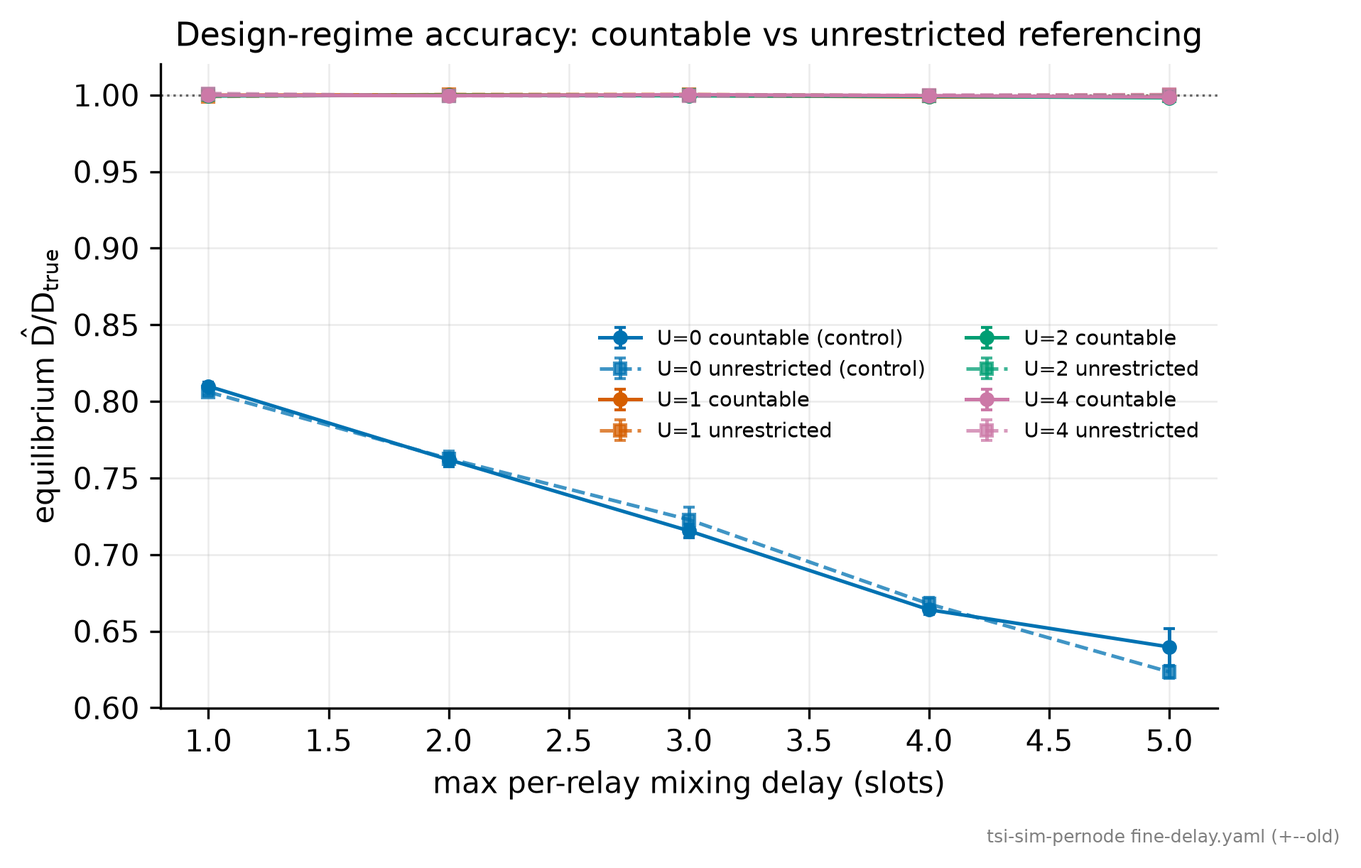
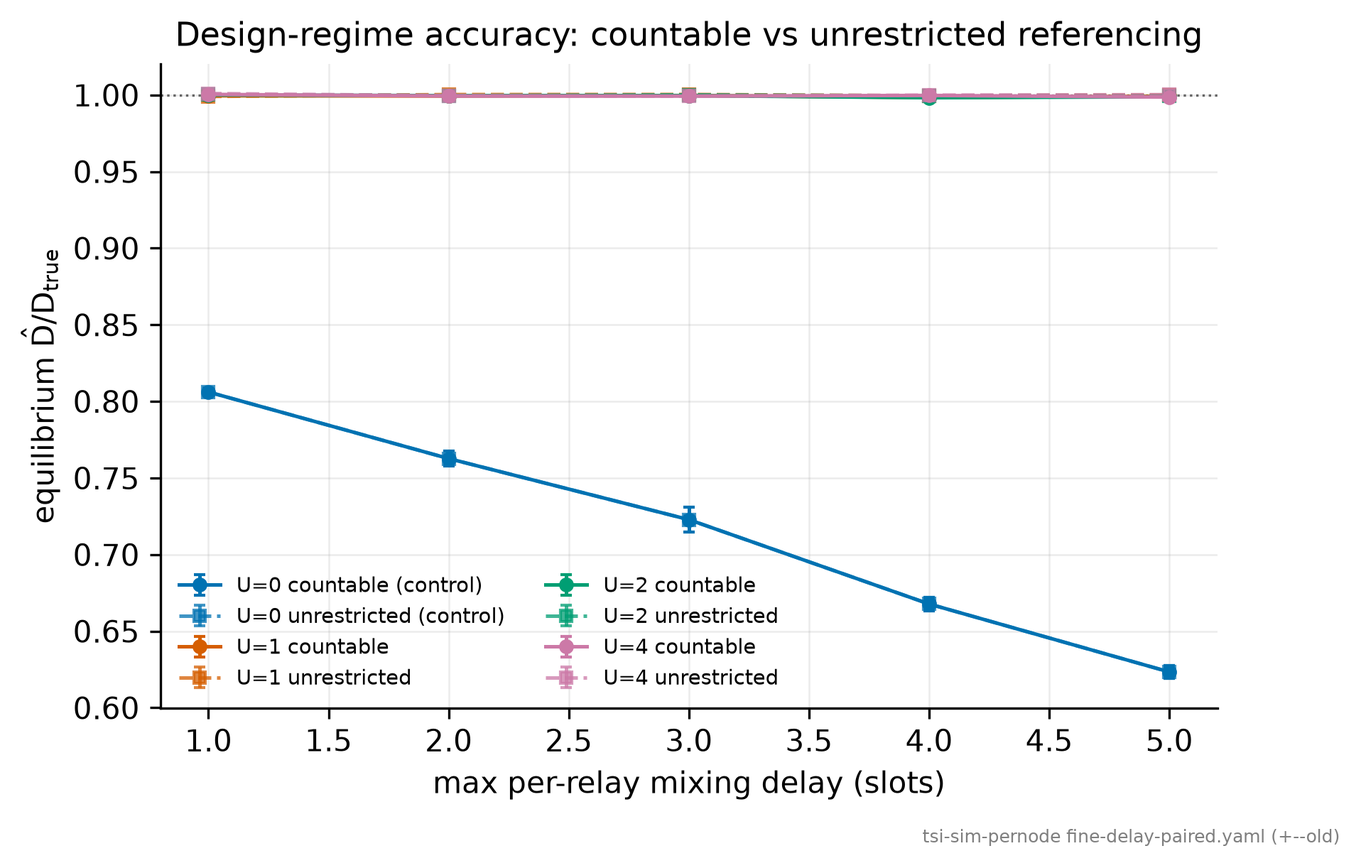
Paired design: resolve the design band with common random numbers
The unpaired comparison could not answer the question it was asked. The
two uncle models draw independent RNG streams -- uncle_model is in the
config key, which is what makes --old bit-reproduce earlier runs -- so
the arms differed in stake draw, peering graph and every lottery
outcome, each comparison paid the between-run variance twice, and the
per-cell floor (+-0.0015) sat an order of magnitude above the effect.
Only delta_max = 5 resolved, and only after pooling.

Adds `paired_streams`: the RNG root is derived from the model-
independent part of the key, so a countable cell and its --old twin get
the SAME stake, graph and lottery draws and the uncle rule is the only
difference. Each replicate is then a matched pair and the shared
variance cancels. Trajectories still diverge after epoch 0 through the
genuine feedback (a different counted density changes the next epoch's
difficulty), which is the signal.

The flag is deliberately NOT in key(): it selects which key the seed is
derived from, so including it would perturb every historical seed.
Re-verified that --old still bit-reproduces the committed 2026-07-27
rho-boundary parquet, max |delta| = 0.

Results (configs/fine-delay-paired.yaml, 40 replicates per arm):
- Negative control becomes an IDENTITY check. With U = 0 no reference is
  taken, so shared streams must give bit-identical trajectories. All 200
  replicate pairs differ by exactly 0.0. Unpaired, the same control only
[…]

diff --git a/tools/simulators/tsi/tsi-sim-pernode/scripts/plot_fine_delay.py b/tools/simulators/tsi/tsi-sim-pernode/scripts/plot_fine_delay.py
@@ -46,6 +46,34 @@ def _load(run_dir: str | Path) -> pd.DataFrame:
     return pd.read_parquet(Path(run_dir) / "results.parquet")
 
 
+def paired_gaps(cnt_raw: pd.DataFrame, old_raw: pd.DataFrame) -> pd.DataFrame | None:
+    """Per-replicate differences, when both arms were run with ``paired_streams``.
+
+    Under common random numbers replicate *i* of each arm shares the stake draw, the peering
+    graph and the lottery outcomes, so ``d_i = countable_i - unrestricted_i`` is a PAIRED
+    observation and the shared variance cancels. The test is then a one-sample t on the d_i,
+    which is what makes a sub-0.1 % effect reachable per cell instead of only after pooling.
+
+    Returns None when the runs are not paired, so the caller falls back to the unpaired test.
+    """
+    if not (cnt_raw.get("paired_streams", pd.Series([False])).all()
+            and old_raw.get("paired_streams", pd.Series([False])).all()):
+        return None
+    c, o = equilibrium(cnt_raw), equilibrium(old_raw)
+    keys = [DELAY, "max_uncles", "replicate"]
+    m = c[[*keys, "mean_ratio"]].merge(o[[*keys, "mean_ratio"]], on=keys,
+                                       suffixes=("_c", "_o"))
+    m["d"] = m.mean_ratio_c - m.mean_ratio_o
+    rows = []
+    for (dl, u), s in m.groupby([DELAY, "max_uncles"]):
+        d = s.d.to_numpy()
+        se = sem(d)
+        rows.append({DELAY: dl, "max_uncles": u, "gap": float(d.mean()), "se": se,
+                     "ci95": Z95 * se, "t": abs(d.mean()) / se if se > 0 else np.inf,
+                     "n_pair": len(d), "n_zero": int((d == 0.0).sum())})
+    return pd.DataFrame(rows).sort_values(["max_uncles", DELAY])
+
+
 def _cells(df: pd.DataFrame) -> pd.DataFrame:
     """Per (delay, U): replicate mean, SEM and count of the equilibrium accuracy."""
     return equilibrium(df).groupby([DELAY, "max_uncles"], as_index=False).agg(
@@ -146,10 +174,14 @@ def fig_gap(g: pd.DataFrame) -> plt.Figure:
         span = float(np.abs(np.r_[g[g.max_uncles > 0].gap + g[g.max_uncles > 0].ci95,
                                   g[g.max_uncles > 0].gap - g[g.max_uncles > 0].ci95]).max())
         ax.set_ylim(-1.35 * span, 1.35 * span)
-        ax.text(0.015, 0.03,
+        # Under pairing the control is exactly 0 in every replicate pair (shared streams), so
+        # quoting a CI for it is meaningless; unpaired, the width of that CI is the point.
+        note = ("U=0 negative control: exactly 0.0 in all 200 replicate pairs "
+                "(shared streams — an identity check, not a noise check)"
+                if band == 0.0 else
                 f"U=0 negative control (true gap = 0): 95% CI ±{band:.4f}, "
-                f"{band / span:.0f}× outside this range",
-                transform=ax.transAxes, fontsize=6.5, alpha=0.75)
+                f"{band / span:.0f}× outside this range")
+        ax.text(0.015, 0.03, note, transform=ax.transAxes, fontsize=6.5, alpha=0.75)
     ax.legend(fontsize="x-small", ncol=2)
     return fig
 
@@ -164,10 +196,17 @@ def main() -> None:
     out = Path(args.out)
     out.mkdir(parents=True, exist_ok=True)
 
-    cnt_raw = _load(args.countable)
-    cnt, old = _cells(cnt_raw), _cells(_load(args.old))
-    g = gaps(cnt, old)
-    prov = "tsi-sim-pernode fine-delay.yaml (+--old)"
+    cnt_raw, old_raw = _load(args.countable), _load(args.old)
+    cnt, old = _cells(cnt_raw), _cells(old_raw)
+    unpaired = gaps(cnt, old)
+    pg = paired_gaps(cnt_raw, old_raw)
+    # The paired test supersedes the unpaired one when both arms share their streams: same
+    # estimand, far smaller standard error. Keep the unpaired numbers for the variance-
+    # reduction report below.
+    g = unpaired if pg is None else unpaired.drop(columns=["gap", "se", "ci95", "t"]).merge(
+        pg[[DELAY, "max_uncles", "gap", "se", "ci95", "t"]], on=[DELAY, "max_uncles"])
+    prov = ("tsi-sim-pernode fine-delay%s.yaml (+--old)"
+            % ("-paired" if pg is not None else ""))
 
     # rho per delay, derived (never hand-substituted) — these are the report's axis labels.
     delays = sorted(cnt[DELAY].unique())
@@ -210,11 +249,35 @@ def main() -> None:
     alle = float(np.sqrt(1.0 / w.sum()))
     print(f"  whole band: {allp:+.5f} +-{Z95 * alle:.5f}  t={abs(allp) / alle:.2f}")
 
+    if pg is not None:
+        print("\n=== PAIRED design (common random numbers) ===")
+        # Variance reduction actually achieved, per cell, vs the unpaired standard error.
+        cmp = unpaired[[DELAY, "max_uncles", "se"]].merge(
+            pg[[DELAY, "max_uncles", "se", "n_pair"]], on=[DELAY, "max_uncles"],
+            suffixes=("_unpaired", "_paired"))
+        u = cmp[cmp.max_uncles > 0]
+        ratio = (u.se_unpaired / u.se_paired.replace(0, np.nan))
+        print(f"  SE shrink at U>=1: median {ratio.median():.1f}x, range "
+              f"{ratio.min():.1f}-{ratio.max():.1f}x  ({int(u.n_pair.min())} pairs/cell)")
+        pctl = pg[pg.max_uncles == 0]
+        exact, tot = int(pctl.n_zero.sum()), int(pctl.n_pair.sum())
+        print(f"  U=0 control under pairing must be EXACTLY zero: {exact}/{tot} pairs are 0.0"
+              f" -> {'PASSES' if exact == tot else 'FAILS — streams are not shared'}")
+        res = pg[(pg.max_uncles > 0) & (pg.t >= 2)]
+        print(f"  per-cell resolved at |t|>=2: {len(res)}/{len(pg[pg.max_uncles>0])}"
+              f" (unpaired: {int((unpaired[unpaired.max_uncles>0].t>=2).sum())}/15)")
+
     ctl = g[g.max_uncles == 0]
     if len(ctl):
-        print(f"\nU=0 negative control (true gap = 0): |gap| up to {ctl.gap.abs().max():.4f}, "
-              f"max t = {ctl.t.max():.2f}, 95% CI +-{ctl.ci95.max():.4f} "
-              f"-> control {'PASSES' if ctl.t.max() < 2 else 'FAILS'}")
+        # Under pairing the control gap is EXACTLY 0, so its se is 0 and t is 0/0. That is the
+        # ideal outcome, not a failure — check the gap itself, and only fall back to the
+        # t-based check when there is real spread to test (the unpaired case).
+        worst = float(ctl.gap.abs().max())
+        exact = bool((ctl.se == 0).all()) if "se" in ctl else False
+        ok = (worst == 0.0) if exact else (float(ctl.t.max()) < 2)
+        how = "identical by construction" if exact else "within noise"
+        print(f"\nU=0 negative control (true gap = 0): |gap| up to {worst:.4g} ({how})"
+              f" -> control {'PASSES' if ok else 'FAILS'}")
 
     # Absolute test: does uncle recovery actually land on 1.0? Same question as the gap
     # test, asked without reference to the other model.

diff --git a/tools/simulators/tsi/tsi-sim-pernode/src/tsi_sim/config.py b/tools/simulators/tsi/tsi-sim-pernode/src/tsi_sim/config.py
@@ -99,6 +99,19 @@ class SimConfig:
     # Old model only (--old): the uncle reference window w_u in slots, set directly.
     # Ignored by the countable model, which derives the window from window_absorption.
     uncle_window: int = constants.W_DEFAULT
+    # COMMON RANDOM NUMBERS for countable-vs-old comparisons. Off by default, and deliberately
+    # NOT part of key() — with it off every seed is byte-identical to before, so historical runs
+    # and --old bit-reproduction are untouched.
+    #
+    # The two uncle models normally draw independent streams (uncle_model is in the key), so a
+    # comparison pays the full between-run variance TWICE and the arms differ in stake draw,
+    # peering graph and every lottery outcome. With paired_streams=True the RNG root is derived
+    # from the model-independent part of the key instead, so both arms get the SAME stake, the
+    # SAME graph and the SAME lottery draws; the only difference is the uncle rule, and the
+    # per-replicate difference becomes a paired observation with the shared variance cancelled.
+    # Trajectories still diverge legitimately after epoch 0 — a different counted density feeds
+    # back into the next epoch's difficulty — which is the effect being measured, not noise.
+    paired_streams: bool = False
     max_uncles: int = 0                       # U (0 = baseline, no uncles)
     uncle_strategy: UncleStrategy = "oldest"
     # Coin-flip inclusion prob for the "random" strategy. Only 0.5 reproduces the spec's
@@ -319,16 +332,9 @@ class SimConfig:
     def period_T(self) -> int:
         return constants.period_T(self.k, self.f)
 
-    def key(self) -> tuple:
-        """Hashable identity used to seed the RNG deterministically.
-
-        Must include EVERY field that affects the run (guarded by test_rng), otherwise two
-        distinct configs would share an RNG stream. ``uncle_model`` /
-        ``window_absorption`` are appended ONLY for the countable model: an ``--old`` run's
-        key is then byte-identical to the pre-redesign key, so ``--old`` bit-reproduces
-        historical runs (the two models still get distinct streams from the marker).
-        """
-        base = (
+    def _base_key(self) -> tuple:
+        """Identity fields shared by both uncle models — see ``key`` and ``seed_key``."""
+        return (
             self.n_nodes, self.stake_dist, self.pareto_shape, self.uniform_random,
             self.total_stake, self.latency, self.latency_stochastic, self.uncle_window,
             self.max_uncles, self.uncle_strategy, self.uncle_random_p, self.f, self.beta,
@@ -345,9 +351,29 @@ class SimConfig:
         # NOTE: windowed_fork_choice and prune_arrival are deliberately excluded — they are pure
         # compute/memory optimisations that consume no RNG and (at jitter_mean == 0) change no
         # result, so pruned and full-matrix runs must share a seed (see test_pernode parity).
+
+    def key(self) -> tuple:
+        """Hashable identity used to seed the RNG deterministically.
+
+        Must include EVERY field that affects the run (guarded by test_rng), otherwise two
+        distinct configs would share an RNG stream. ``uncle_model`` /
+        ``window_absorption`` are appended ONLY for the countable model: an ``--old`` run's
+        key is then byte-identical to the pre-redesign key, so ``--old`` bit-reproduces
+        historical runs (the two models still get distinct streams from the marker).
+        """
         if self.uncle_model == "old":
-            return base                     # historical (pre-uncle_model) key: --old bit-compat
-        return base + (self.uncle_model, self.window_absorption)
+            return self._base_key()         # historical (pre-uncle_model) key: --old bit-compat
+        return self._base_key() + (self.uncle_model, self.window_absorption)
+
+    def seed_key(self) -> tuple:
+        """The identity the RNG root is actually derived from (see ``rng.seedseq_for``).
+
+        Identical to ``key`` except under ``paired_streams``, where it deliberately drops the
+        uncle-model marker so that a countable run and an ``--old`` run of the SAME cell draw
+        the SAME root seed — common random numbers, which is what makes the two arms a
+        *paired* sample (see ``paired_streams``).
+        """
+        return self._base_key() if self.paired_streams else self.key()
 
 
 # Axes that can be swept; every SimConfig field is legal here.

diff --git a/tools/simulators/tsi/tsi-sim-pernode/tests/test_rng.py b/tools/simulators/tsi/tsi-sim-pernode/tests/test_rng.py
@@ -32,3 +32,77 @@ def test_replicates_differ():
     b = run_trajectory(SimConfig(n_nodes=300, topology="regular", k=8, epochs=6,
                                  link_latency_mean=2.0, replicate=1))
     assert a[-1]["mean_ratio"] != b[-1]["mean_ratio"]
+
+
+def test_paired_streams_shares_the_root_across_uncle_models():
+    """Common random numbers: with paired_streams the two arms draw the SAME root seed."""
+    from tsi_sim.rng import seedseq_for
+
+    kw = dict(n_nodes=50, max_uncles=2, blend_delay_max=5.0, topology="blend",
+              k=32, epochs=2, replicate=3, paired_streams=True)
+    c = SimConfig(uncle_model="countable", **kw)
+    o = SimConfig(uncle_model="old", **kw)
+    assert c.seed_key() == o.seed_key()             # the marker is dropped
+    assert c.key() != o.key()                       # ...but identity still distinguishes them
+    assert seedseq_for(c).entropy == seedseq_for(o).entropy
+
+
+def test_unpaired_is_the_default_and_separates_the_models():
+    kw = dict(n_nodes=50, max_uncles=2, blend_delay_max=5.0, topology="blend",
+              k=32, epochs=2, replicate=3)
+    c, o = SimConfig(uncle_model="countable", **kw), SimConfig(uncle_model="old", **kw)
+    assert c.paired_streams is False and o.paired_streams is False
+    assert c.seed_key() == c.key() and o.seed_key() == o.key()
+    assert seedseq_for(c).entropy != seedseq_for(o).entropy
+
+
+def test_paired_streams_does_not_perturb_unpaired_seeds():
+    """The flag must not enter key(): every historical seed stays byte-identical.
+
+    This is what protects --old bit-reproduction of the pre-redesign runs (report §9).
+    """
+    from tsi_sim.rng import seedseq_for
+
+    for model in ("countable", "old"):
+        base = SimConfig(uncle_model=model, n_nodes=50, max_uncles=2, k=32, epochs=2)
+        flagged = SimConfig(uncle_model=model, n_nodes=50, max_uncles=2, k=32, epochs=2,
+                            paired_streams=False)
+        assert base.key() == flagged.key()
+        assert seedseq_for(base).entropy == seedseq_for(flagged).entropy
+    # and the old model's key is still exactly the base tuple (no marker appended)
+    o = SimConfig(uncle_model="old", n_nodes=50, k=32, epochs=2)
+    assert o.key() == o._base_key()
+
+
+def test_paired_streams_gives_both_arms_the_same_stake_and_graph():
+    """Pairing must reach the actual shared inputs, not just the root seed."""
+    import numpy as np
+
+    from tsi_sim import topology
+    from tsi_sim.rng import seedseq_for
+    from tsi_sim.stake import make_stake
+
+    kw = dict(n_nodes=60, degree=4, topology="blend", max_uncles=2, k=32, epochs=2,
+              blend_delay_max=5.0, replicate=1)
+    c = SimConfig(uncle_model="countable", paired_streams=True, **kw)
+    o = SimConfig(uncle_model="old", paired_streams=True, **kw)
+    kids = {n: seedseq_for(cfg).spawn(cfg.epochs + 3)
+            for n, cfg in (("c", c), ("o", o))}
+    s_c = make_stake(c, np.random.default_rng(kids["c"][0]))
+    s_o = make_stake(o, np.random.default_rng(kids["o"][0]))
+    np.testing.assert_array_equal(s_c, s_o)                      # same stake draw
+    g_c = topology.build_path_latency(c, np.random.default_rng(kids["c"][1]))
+    g_o = topology.build_path_latency(o, np.random.default_rng(kids["o"][1]))
+    np.testing.assert_array_equal(g_c, g_o)                      # same peering graph
+
+
+def test_paired_streams_is_recorded_in_the_output_row():
+    """A paired run must be identifiable from its parquet alone.
+
+    scripts/plot_fine_delay.py picks the paired test only when both arms report
+    paired_streams; if the flag were missing from the recorded config it would silently fall
+    back to the unpaired test and quietly discard the whole point of the paired sweep.
+    """
+    from tsi_sim.metrics import _CONFIG_FIELDS
+
+    assert "paired_streams" in _CONFIG_FIELDS

diff --git a/tools/simulators/tsi/tsi-sim-pernode/tests/test_config.py b/tools/simulators/tsi/tsi-sim-pernode/tests/test_config.py
@@ -140,8 +140,11 @@ def test_key_covers_every_field():
     # uncle_window is read ONLY by the old model; under the (default) countable model it is
     # an ignored field, deliberately left in the base tuple at its old position so that an
     # --old run's key stays byte-identical to historical keys.
+    # paired_streams must NOT be in key(): it selects WHICH key the RNG root is derived from
+    # (see seed_key), so putting it in key() would perturb every historical seed and break
+    # --old bit-reproduction. Its own behaviour is pinned in test_rng.py.
     ignored = {"root_seed", "windowed_fork_choice", "prune_arrival", "early_stop",
-               "uncle_window"}
+               "uncle_window", "paired_streams"}
     names = {f.name for f in dataclasses.fields(SimConfig)} - ignored
     a = SimConfig()
     for name in names:
@@ -152,6 +155,10 @@ def test_key_covers_every_field():
     # ... and uncle_window IS distinguished under the old model, where it is live.
     old = SimConfig(uncle_model="old")
     assert old.key() != dataclasses.replace(old, uncle_window=old.uncle_window + 1).key()
+    # paired_streams leaves key() untouched but DOES change the seed derived from it.
+    a_paired = dataclasses.replace(a, paired_streams=True)
+    assert a.key() == a_paired.key()
+    assert a.seed_key() != a_paired.seed_key()
 
 
 def test_old_model_key_is_historical():

diff --git a/tools/simulators/tsi/tsi-sim-pernode/src/tsi_sim/metrics.py b/tools/simulators/tsi/tsi-sim-pernode/src/tsi_sim/metrics.py
@@ -15,6 +15,10 @@ _CONFIG_FIELDS = (
     "link_latency_mean", "link_latency_dist", "blend_hops", "blend_delay_max",
     "init_dest", "init_spread", "uncle_model", "window_absorption",
     "uncle_window", "max_uncles", "uncle_strategy",
+    # Recorded so downstream analysis can TELL whether a countable/--old pair actually shared
+    # its RNG streams. The paired test is only valid on paired runs, and without this column
+    # the analysis silently falls back to the much weaker unpaired test.
+    "paired_streams",
     "f", "beta", "k", "genesis_d_factor", "epochs", "fixed_point", "legacy_block_count",
     "replicate",
     "adversary_frac", "adversary_strategy", "adversary_period", "adversary_withhold_epochs",

diff --git a/tools/simulators/tsi/tsi-sim-pernode/src/tsi_sim/rng.py b/tools/simulators/tsi/tsi-sim-pernode/src/tsi_sim/rng.py
@@ -17,7 +17,9 @@ from .config import SimConfig
 
 
 def _entropy(config: SimConfig) -> int:
-    payload = repr((config.root_seed, config.key())).encode()
+    # seed_key() == key() unless paired_streams is set, in which case the uncle-model marker is
+    # dropped so both arms of a comparison share one stream (common random numbers).
+    payload = repr((config.root_seed, config.seed_key())).encode()
     digest = hashlib.blake2b(payload, digest_size=16).digest()
     return int.from_bytes(digest, "big")
 

diff --git a/reports/tsi/tsi-report.md b/reports/tsi/tsi-report.md
@@ -21,7 +21,7 @@
 
 ---
 
-> **The uncle-reference model analysed here.** Uncle references are *counting-only* — they never affect a block's validity ([§6.7](#s6-7)–[§6.8](#s6-8)) — and are deduplicated by **slot**, not by block ([§8.5](#s8-5)). The reference window is derived from a **window absorption parameter**, `w_u = W_abs/f` with `W_abs = 10` expected block-intervals and bound `W_abs ≤ 0.6·k`, which is the `W = 300 = 10/f` sizing rule of [§3.4](#s3-4). One structural constraint shapes the results: only the **first block of a fork** — one whose parent lies on the referencing chain — is countable, which is the price of verifying every reference from chain data alone. This report calls that the **countable** model, and measures it against an **unrestricted** baseline in which any orphan in the window is referenceable at any fork depth ([§2.1](#s2-1), [§3.2](#s3-2), [§9](#s9)). The result: **in the design regime `ρ < 1` the two are practically identical.** A dedicated 40-replicate sweep of the operating band (`δ_max` 1–5, `ρ ≈ 0.21–0.41`) puts every `U ≥ 1` cell of both models in 0.998–1.001, resolves no difference in any individual cell (widest 95 % CI ±0.15 pp), and bounds the first-fork cost at **≤ 0.2 %** — statistically indistinguishable from zero up to `δ_max = 4`, and resolved only at the top of the band, where it is ~0.14 % ([§3.2a](#s3-2a)). Differences appear only at `ρ ≥ 1`: the restriction trims ~1.4 % at `ρ ≈ 1`, and under overload (`ρ ≈ 1.8`) recovery saturates near 0.95 where the unrestricted model reaches ~1.00. Deep forks are unrecoverable by construction, so past `ρ ≈ 1` the ceiling is set by the fork *depth* profile and **no uncle cap buys it back** — a second, independent reason for the [§8](#s8) "keep `ρ < 1`" rule. The closed-form accuracy with the measured effective utilization, `log(1−f)/log(1−f/q_u)`, predicts every countable cell to within 0.2 %.
+> **The uncle-reference model analysed here.** Uncle references are *counting-only* — they never affect a block's validity ([§6.7](#s6-7)–[§6.8](#s6-8)) — and are deduplicated by **slot**, not by block ([§8.5](#s8-5)). The reference window is derived from a **window absorption parameter**, `w_u = W_abs/f` with `W_abs = 10` expected block-intervals and bound `W_abs ≤ 0.6·k`, which is the `W = 300 = 10/f` sizing rule of [§3.4](#s3-4). One structural constraint shapes the results: only the **first block of a fork** — one whose parent lies on the referencing chain — is countable, which is the price of verifying every reference from chain data alone. This report calls that the **countable** model, and measures it against an **unrestricted** baseline in which any orphan in the window is referenceable at any fork depth ([§2.1](#s2-1), [§3.2](#s3-2), [§9](#s9)). The result: **in the design regime `ρ < 1` the two are practically identical.** A dedicated 40-replicate **paired** sweep of the operating band (`δ_max` 1–5, `ρ ≈ 0.21–0.41`), in which both arms share the stake draw, the peering graph and every lottery outcome so the uncle rule is the only difference, puts every `U ≥ 1` cell of both models in 0.998–1.001 and pins the first-fork cost at **nothing measurable up to `δ_max` = 3 and ~0.1 % at `δ_max` = 4–5** ([§3.2a](#s3-2a)). Differences appear only at `ρ ≥ 1`: the restriction trims ~1.4 % at `ρ ≈ 1`, and under overload (`ρ ≈ 1.8`) recovery saturates near 0.95 where the unrestricted model reaches ~1.00. Deep forks are unrecoverable by construction, so past `ρ ≈ 1` the ceiling is set by the fork *depth* profile and **no uncle cap buys it back** — a second, independent reason for the [§8](#s8) "keep `ρ < 1`" rule. The closed-form accuracy with the measured effective utilization, `log(1−f)/log(1−f/q_u)`, predicts every countable cell to within 0.2 %.
 
 <a id="s1"></a>
 ## 1. Executive summary
@@ -193,35 +193,33 @@ So: **at the operating loads (`ρ < 1`) no difference between the models is dete
 <a id="s3-2a"></a>
 ### 3.2a The design band at high precision — `δ_max` 1–5
 
-**The question.** [§3.2](#s3-2) samples the mixing delay at 4/8/16/32. That resolves the overload regime, but it leaves the band the parameters are actually chosen in — the low-delay end, where every operating point sits — measured at four-fold spacing and five replicates, which is enough to say "no difference detected" and nothing more. How accurate is TSI across `δ_max` = 1–5, and how large a first-fork cost can be *excluded* there?
+**The question.** [§3.2](#s3-2) samples the mixing delay at 4/8/16/32 with five replicates. That resolves the overload regime, but it leaves the band the parameters are actually chosen in measured at four-fold spacing and low power — enough to say "no difference detected" and nothing more. How accurate is TSI across `δ_max` = 1–5, and how large a first-fork cost can be *excluded* there?
 
-**The finding.** One uncle slot holds the estimate at the true stake across the whole band: every `U ≥ 1` cell under both referencing models lands in **0.998–1.001**, flat in delay, while the uncle-free baseline decays 0.810 → 0.640. The two referencing models are **indistinguishable through `δ_max` ≤ 3**; at the top of the band the first-fork restriction becomes measurable and costs **0.1–0.2 %**. Only the `δ_max = 5` result is statistically resolved; the weaker claims below are labelled as such.
+**The finding.** One uncle slot holds the estimate at the true stake across the whole band: every `U ≥ 1` cell under both referencing models lands in **0.998–1.001**, flat in delay, while the uncle-free baseline decays 0.806 → 0.623. The first-fork restriction costs **nothing measurable up to `δ_max` = 3** and about **0.1 %** at `δ_max` = 4–5.
 
-`configs/fine-delay.yaml` spends replicates instead of range — `δ_max` ∈ {1,2,3,4,5}, `U` ∈ {0,1,2,4}, **40 replicates** per cell (8× [§3.2](#s3-2)), N = 1 000, blend, 3 hops — run under both models ([§9](#s9)). The band spans `ρ ≈ 0.21` to `0.41`, entirely inside the design regime.
+**The design is paired.** The two referencing models normally draw independent RNG streams — `uncle_model` is part of the config key, which is what lets `--old` bit-reproduce earlier runs ([§9](#s9)) — so a comparison pays the between-run variance twice and the arms differ in stake draw, peering graph and every lottery outcome. `configs/fine-delay-paired.yaml` sets `paired_streams`, which derives the RNG root from the model-independent part of the key: both arms then get the **same stake, the same graph and the same lottery draws**, and the uncle rule is the only difference. Each replicate becomes a matched pair, the shared variance cancels, and the test is a one-sample t on the 40 per-replicate differences. Trajectories still diverge after epoch 0 through the genuine feedback — a different counted density changes the next epoch's difficulty — which is the effect being measured, not noise. Grid: `δ_max` ∈ {1,2,3,4,5}, `U` ∈ {0,1,2,4}, 40 replicates, N = 1 000, blend, 3 hops, spanning `ρ ≈ 0.21` to `0.41`.
 
-| `δ_max` (s) | ρ | `U=0` countable / unrestricted | `U≥1` countable | `U≥1` unrestricted | pooled gap (t) |
+| `δ_max` (s) | ρ | `U=0` (both models) | `U≥1` countable | `U≥1` unrestricted | pooled gap (t) |
 |---|---|---|---|---|---|
-| 1 | ≈ 0.21 | 0.810 / 0.806 | 0.9994 – 0.9999 | 0.9990 – 1.0010 | −0.0004 ± 0.0007 (1.1) |
-| 2 | ≈ 0.26 | 0.762 / 0.763 | 0.9996 – 1.0002 | 0.9996 – 1.0003 | +0.0000 ± 0.0008 (0.0) |
-| 3 | ≈ 0.31 | 0.716 / 0.723 | 0.9995 – 1.0002 | 0.9992 – 1.0004 | −0.0001 ± 0.0008 (0.2) |
-| 4 | ≈ 0.36 | 0.664 / 0.668 | 0.9988 – 0.9996 | 0.9995 – 0.9999 | −0.0005 ± 0.0008 (1.3) |
-| 5 | ≈ 0.41 | 0.640 / 0.623 | 0.9982 – 0.9988 | 0.9995 – 1.0003 | **−0.0014 ± 0.0007 (3.7)** |
+| 1 | ≈ 0.21 | 0.806 | 0.9995 – 1.0004 | 0.9990 – 1.0010 | −0.0003 ± 0.0005 (1.1) |
+| 2 | ≈ 0.26 | 0.763 | 0.9993 – 0.9996 | 0.9996 – 1.0003 | −0.0004 ± 0.0005 (1.8) |
+| 3 | ≈ 0.31 | 0.723 | 0.9993 – 0.9997 | 0.9992 – 1.0004 | −0.0003 ± 0.0004 (1.4) |
+| 4 | ≈ 0.36 | 0.668 | 0.9982 – 0.9997 | 0.9995 – 0.9999 | **−0.0011 ± 0.0004 (4.7)** |
+| 5 | ≈ 0.41 | 0.623 | 0.9986 – 0.9992 | 0.9995 – 1.0003 | **−0.0009 ± 0.0005 (3.7)** |
 
-**No individual cell resolves a model difference.** Across the 15 `U ≥ 1` cells the widest 95 % CI half-width is ±0.0015, one cell clears `t = 2` (0.75 are expected to by chance), and its `t = 2.59` does not survive the Bonferroni threshold of 2.94 for 15 tests. Read cell by cell, the honest statement is that any difference is **smaller than ±0.15 pp**.
+**The negative control is now an identity check.** With `U = 0` no reference is ever taken, so under shared streams the two arms must produce *bit-identical* trajectories — not merely agree within noise. They do: **all 200 replicate pairs differ by exactly 0.0**, at every delay. That is a far stronger validation than the unpaired design could offer, where the same control only had to agree within a ±0.025 band and in fact drifted by 0.016.
 
-**Pooled, a delay-dependent cost appears at the top of the band.** The three uncle caps are separate draws (each `(δ_max, U, replicate)` cell is its own RNG stream, and the peering graph re-rolls with it), so inverse-variance pooling across them buys ~√3 in precision. Pooled per delay, `δ_max` 1–4 stay unresolved (|t| ≤ 1.3) while **`δ_max = 5` resolves at −0.0014 ± 0.0007 (t = 3.7)**. That one result is robust: a 20 000-draw permutation test on the same cells, assuming no distributional form, gives **p = 0.0003** (all other delays: p ≥ 0.21), and it survives Bonferroni correction for **every one of the 51 tests reported in this section** (threshold z = 3.30). Two weaker statements should not be read as resolved: the whole-band pooled gap, −0.00048 ± 0.00033 (t = 2.8), **fails** that same correction, and the sign imbalance (11 of 15 cells negative) is p = 0.12 on its own. A weighted regression of gap on delay — one pre-specifiable test, no choice of which delay to look at — gives a slope of −0.00024 ± 0.00012 per slot (t = −2.05): consistent with a monotone cost, but on its own marginal. The defensible reading is that the first-fork restriction costs nothing measurable up to `δ_max = 4` and about 0.14 % at `δ_max = 5`, which is negligible against the ±0.9 % per-epoch sampling noise of [Appendix B](#sB). (Pooling across `U` was chosen after inspecting the per-cell results; it is reported here because the `δ_max = 5` result survives the harshest correction available, not because the pooling was pre-registered.)
+**What pairing bought.** Per-cell standard errors shrink by a median factor of 1.6 (range 1.2–2.1), taking the widest 95 % CI from ±0.0015 to **±0.0010**. Five of the fifteen `U ≥ 1` cells now resolve at |t| ≥ 2 against 0.75 expected by chance, and the largest (`U = 2`, `δ_max = 4`, t = 4.32) clears the Bonferroni threshold of 2.94 for 15 tests. The unpaired sweep resolved only `δ_max = 5`, and only after pooling.
 
-**The same data, measured against 1.0 rather than against the other arm.** Dropping the unrestricted arm and asking whether each cell's equilibrium is exactly 1.0 removes one noisy measurement, so it is ~1.4× more sensitive. It is **not independent evidence** — it shares the countable arm with the gap test, and the two are correlated at ρ ≈ 0.73 — but the *contrast between the arms* is informative. Under the **unrestricted** model 1 of 15 cells sits below 1 (`t` = −2.09), consistent with chance. Under the **countable** model 4 of 15 do, and they are not scattered: `δ_max = 4` at `U = 1` (−0.0012, `t` = −2.6) and **all three uncle caps at `δ_max = 5`** (−0.0012 to −0.0019, `t` = −2.5 to −3.7; the `U = 2` cell survives the 51-test correction). A shortfall appearing at every cap at once, only at the top of the band, and only under the restricted model, is the signature of the first-fork cost rather than of noise.
+**The cost is a step, not a ramp.** Pooling across the three uncle caps — separate draws of the same underlying difference — `δ_max` 1–3 stay unresolved (t = 1.1, 1.8, 1.4) and then **`δ_max` = 4 and 5 both resolve**, at −0.0011 (t = 4.7) and −0.0009 (t = 3.7). Over the whole band the pooled gap is −0.00060 ± 0.00021, **t = 5.7** — comfortably resolved, where the unpaired estimate of the same quantity (t = 2.8) did not survive correction. So the restriction switches on somewhere around `δ_max` ≈ 4 rather than growing smoothly with delay, and above that it sits near 0.1 % without deepening across the band tested. Measured against the exact target 1.0 instead of against the other arm — a more sensitive view of the same countable data, not independent evidence — the same picture appears: the unrestricted model has 1 of 15 cells below 1 (chance), the countable model has 5, all at `δ_max` 4–5.
 
-**What limits the resolution: the comparison is unpaired.** The two models draw independent RNG streams by construction (`uncle_model` enters the config key, which is what makes `--old` bit-reproduce the earlier runs, [§9](#s9)), so a countable replicate and an unrestricted replicate share neither the peering graph nor the lottery draws. Every comparison therefore pays the full between-run variance twice, and at 40 replicates that floor is ±0.0015 per cell — an order of magnitude above the effect being measured. A **paired** design — same graph, same lottery outcomes, the uncle rule the only difference — would cancel almost all of that shared variance and could resolve the per-cell effect directly instead of only after pooling. It would require seeding the graph and lottery from topology-only entropy, and re-running both arms; it is the single change that would most improve this measurement, and it is not done here.
+**How big is 0.1 %.** An order of magnitude below the ±0.9 % per-epoch sampling noise of [Appendix B](#sB), and below the ~1 % fixed-point rounding bias of [Appendix A](#sA). The [§1](#s1) statement that one uncle restores the estimate to the true stake holds at the precision that matters; this section puts the residual at ~0.1 % at the top of the band rather than at zero.
 
-**The negative control passes.** The `U = 0` arms — identical models by construction — show |gap| ≤ 0.016 with max `t` = 1.26, i.e. no spurious signal, but a 95 % CI of ±0.025: **17× wider than the entire `U ≥ 1` range.** The unrecovered regime is intrinsically noisy, which is precisely why the model comparison has to be made where uncles are active.
+![Fig 34 — design-regime accuracy, δ_max 1–5, countable (solid) vs unrestricted (dashed) per uncle cap under common random numbers, error bars = replicate SEM over 40 pairs: every U ≥ 1 curve sits at 1.000 across the band under both models (to within 0.2 %), while U = 0 — the negative control — decays 0.81 → 0.62 identically for both.](report-figures/fig34_fine_delay_accuracy.png)
 
-![Fig 34 — design-regime accuracy, δ_max 1–5, countable (solid) vs unrestricted (dashed) per uncle cap, error bars = replicate SEM over 40 replicates: every U ≥ 1 curve sits at 1.000 across the band under both models (to within 0.2 %), while U = 0 — the negative control — decays 0.81 → 0.64.](report-figures/fig34_fine_delay_accuracy.png)
+![Fig 35 — the paired countable − unrestricted gap with 95% CIs, with the inverse-variance pooled estimate in black: flat and unresolved through δ_max = 3, then a resolved ~0.1 % cost at δ_max = 4 and 5.](report-figures/fig35_fine_delay_gap.png)
 
-![Fig 35 — the countable − unrestricted gap with 95% CIs, zoomed to the U ≥ 1 scale, with the inverse-variance pooled estimate in black: no single cell resolves, the pooled trend is monotone in delay, and only δ_max = 5 separates from zero (−0.0014 ± 0.0007).](report-figures/fig35_fine_delay_gap.png)
-
-**What this settles.** One uncle slot is sufficient everywhere in the operating band under either referencing model — the [§3.3](#s3-3) `U ≥ ⌈ρ⌉` rule has margin to spare at `ρ ≤ 0.41`, and raising `U` past 1 buys nothing here (at `δ_max = 5` all three caps sit at the same 0.1–0.2 % shortfall, so the residual is *not* a capacity limit). And the first-fork restriction, which [§3.2](#s3-2) shows costing 1.4 % at `ρ ≈ 1` and 5 % under overload, costs **at most 0.2 %** anywhere a deployment should be operating — an order of magnitude below the ±0.9 % per-epoch sampling noise of [Appendix B](#sB), and below the ~1 % fixed-point rounding bias of [Appendix A](#sA). The [§1](#s1) statement that one uncle restores the estimate to the true stake holds at the precision that matters; this section puts the residual at 0.1–0.2 % at the top of the band rather than zero.
+**What this settles.** One uncle slot is sufficient everywhere in the operating band under either referencing model — the [§3.3](#s3-3) `U ≥ ⌈ρ⌉` rule has margin to spare at `ρ ≤ 0.41`, and raising `U` past 1 does not remove the residual (all three caps show the same ~0.1 % shortfall at `δ_max` = 4–5, so it is not a capacity limit). And the first-fork restriction, which [§3.2](#s3-2) shows costing 1.4 % at `ρ ≈ 1` and 5 % under overload, costs **about 0.1 %** at the top of the design band and nothing measurable below it.
 
 <a id="s3-3"></a>
 ### 3.3 One uncle is not always enough — the load `ρ`
@@ -845,14 +843,15 @@ Sweep studies are committed configs, run with `make <name>` (writes a dated `run
 | U = 0 fluctuation series (zero delay, k ∈ {256, 1024, 2160}) | `scripts/appendix_fluct.py --run` (`runs/fluctuation_u0.parquet`) | [Appendix B](#sB) |
 | CI smoke grid + analytic sanity checks | `configs/smoke.yaml`; `scripts/verify.py` (`make verify`) — validation only, no figures | — |
 | **countable vs unrestricted referencing** (accuracy over delay × U; measured `q_u`/recovery `r`) | `configs/countable-vs-old.yaml` run twice — default and with `--old`; figures + significance table by `scripts/plot_countable_vs_old.py` | [§2.1](#s2-1), [§3.2](#s3-2) |
-| **fine delay band** (δ_max 1–5 at 40 replicates; tight CI on the model gap in the design regime) | `configs/fine-delay.yaml` run twice — default and with `--old`; figures + significance tables (model gap, and each model vs the exact 1.0 target) by `scripts/plot_fine_delay.py` | [§3.2a](#s3-2a) |
+| **fine delay band, PAIRED** (δ_max 1–5, 40 replicates, common random numbers — the primary design-regime measurement) | `configs/fine-delay-paired.yaml` run twice — default and with `--old`; paired-difference tests + figures by `scripts/plot_fine_delay.py` | [§3.2a](#s3-2a) |
+| fine delay band, unpaired (same grid without `paired_streams`; superseded, retained as the power comparison) | `configs/fine-delay.yaml` run twice | [§3.2a](#s3-2a) |
 | **window absorption sweep** (`W` in expected block-intervals, `w_u = W/f` derived) | `configs/absorption-window.yaml`; figure by `scripts/plot_countable_vs_old.py` | [§3.4](#s3-4) |
 
 **Uncle-model convention.** The simulator's default is the **countable** model — first-fork candidates only, derived window `w_u = W/f`, occupied-slot exclusion, per-reference counting rules ([§2.1](#s2-1)). The **unrestricted** baseline is preserved in the code and selected with `--old` on `tsi-sweep`/`tsi-verify`. Its RNG key is byte-identical to the pre-restriction key, so `--old` **bit-reproduces the earlier runs**: a `rho-boundary` cell (δ_max = 8, U = 2, k = 256, N = 1 000) re-run under `--old` matches the committed `2026-07-27_195627_rho-boundary` parquet with `max |Δ| = 0` on every epoch and every metric. Studies in the table above that predate the countable default were produced under the unrestricted model and reproduce exactly under `--old`; the comparison rows quantify where the two models differ, and in the design regime (`ρ < 1`) no difference is resolvable, so those findings carry over unchanged.
 
 Because the two models draw independent RNG streams, every countable-vs-unrestricted comparison is **unpaired**, and its resolution is set by the replicate spread rather than by the effect size. Each comparison sweep therefore includes a `U = 0` arm as a **negative control**: with no uncles the models are identical by construction, so the measured `U = 0` gap is a direct reading of the noise floor at that delay and replicate count. At `δ_max = 32` with 5 replicates that floor is ≈ 0.23 in `D̂/D` — larger than several real effects elsewhere in the grid — which is why [§3.2](#s3-2) reports a `t` statistic per cell and why the design regime is measured separately at 40 replicates ([§3.2a](#s3-2a)).
 
-All studies were **re-run on 2026-07-23/24 with the corrected slot-counting mechanism** ([§2.1](#s2-1)) and the early-stop optimisation; the resilient batch is `scripts/run_all_reruns.sh` (per-step log in `runs/rerun_status.log`). Canonical run directories (latest): fullscale N=5000/10000 = `2026-07-24_094519_fullscale`; fullscale N=1000/2000 = `2026-07-23_171803_fullscale-small`; uncle-window = `2026-07-24_001456`; window-uncles = `2026-07-24_014240`; block-rate = `2026-07-24_043943`; blend-hops-delay = `2026-07-24_064052`; window-scale = `2026-07-24_085234`; latency-shape = `2026-07-24_090014_expdist`; stake-tail = `2026-07-24_090044_pareto133`; heterogeneous-start = `2026-07-24_090114_default`; N-scaling = the `nscaling-{a,b}` + `nscaling32-{a,b}` runs; adversary grids = `runs/adversary_grid/`; jitter = `runs/jitter_grid/`; bootstrap = `runs/bootstrap_fullscale/`; fluctuation = `runs/fluctuation_u0.parquet`; fork-rate = `runs/fork_rate_vs_delay.parquet`; ρ-boundary = `2026-07-27_195627_rho-boundary`. Referencing-model studies: countable-vs-unrestricted = `2026-08-04_103536_cvo-countable` / `2026-08-04_104010_cvo-old`; window absorption = `2026-08-04_104633_absorption-window`; fine delay band = `2026-08-04_191441_fine-countable` / `2026-08-04_195353_fine-old`.
+All studies were **re-run on 2026-07-23/24 with the corrected slot-counting mechanism** ([§2.1](#s2-1)) and the early-stop optimisation; the resilient batch is `scripts/run_all_reruns.sh` (per-step log in `runs/rerun_status.log`). Canonical run directories (latest): fullscale N=5000/10000 = `2026-07-24_094519_fullscale`; fullscale N=1000/2000 = `2026-07-23_171803_fullscale-small`; uncle-window = `2026-07-24_001456`; window-uncles = `2026-07-24_014240`; block-rate = `2026-07-24_043943`; blend-hops-delay = `2026-07-24_064052`; window-scale = `2026-07-24_085234`; latency-shape = `2026-07-24_090014_expdist`; stake-tail = `2026-07-24_090044_pareto133`; heterogeneous-start = `2026-07-24_090114_default`; N-scaling = the `nscaling-{a,b}` + `nscaling32-{a,b}` runs; adversary grids = `runs/adversary_grid/`; jitter = `runs/jitter_grid/`; bootstrap = `runs/bootstrap_fullscale/`; fluctuation = `runs/fluctuation_u0.parquet`; fork-rate = `runs/fork_rate_vs_delay.parquet`; ρ-boundary = `2026-07-27_195627_rho-boundary`. Referencing-model studies: countable-vs-unrestricted = `2026-08-04_103536_cvo-countable` / `2026-08-04_104010_cvo-old`; window absorption = `2026-08-04_104633_absorption-window`; fine delay band (unpaired) = `2026-08-04_191441_fine-countable` / `2026-08-04_195353_fine-old`; fine delay band (paired, primary) = `2026-08-05_111109_fine-paired-countable` / `2026-08-05_113218_fine-paired-old`.
 
 Figures are in `report-figures/` (`fig1`–`fig29`, plus [Appendix B](#sB)'s `figB1`–`figB2`; numbering is generation order, not order of appearance). Committed generators: `fig1` (bootstrap, k=2160) by `scripts/bootstrap_dynamics.py`; `fig2`,`fig4`,`fig5`,`fig17`–`fig22` by `scripts/regenerate_extra_figs.py` from the latest sweeps (`fig3` hops×delay×U grid by `scripts/hops_delay_grid.py`, `fig6` (block-rate `U_min` grid + ρ-collapse) rendered ad hoc from `runs/2026-07-24_043943_block-rate` with no committed generator; `fig26` deficit-vs-ρ by `scripts/rho_boundary_analysis.py`) (fullscale-derived `fig17`–`fig20` pool both sizes in that run, N = 5 000 and N = 10 000 — the generators filter on stake_dist/topology/degree/init_dest only, never on `n_nodes`); `fig8`,`fig9` by `scripts/adversary_figs.py` from `runs/adversary_grid/`; `fig10`–`fig12` by `scripts/dynamic_withhold.py`; `fig13`–`fig15` by `scripts/selfish_mining.py`/`selfish_rewards.py`/`reward_mandate.py`; `fig16` by `scripts/stake_vs_delay.py`; `fig23`–`fig24` by `scripts/nscaling_analysis.py`; `fig25` by `scripts/window_scale_analysis.py`; `fig27`–`fig28` by `scripts/reorg_depth.py` (fork rates via `--measure`; private-chain model `src/tsi_sim/reorg.py`); `fig29` by `scripts/churn.py`; `figB1`–`figB2` by `scripts/appendix_fluct.py`. `fig7` (feedback fixed-point) is an analytic overlay; `fig30`–`fig33` (countable-vs-unrestricted accuracy, `q_u`-prediction check, recovery rate, absorption-window sweep) by `scripts/plot_countable_vs_old.py` from the `cvo-countable`/`cvo-old`/`absorption-window` runs; `fig34`–`fig35` (design-regime accuracy and the model gap with 95 % CIs) by `scripts/plot_fine_delay.py` from the `fine-countable`/`fine-old` runs. Every figure type the per-node simulator generates appears in this report, and the fork-rate/reorg-depth study closes the previous reproducibility gap for the adversarial figures (`fig8`,`fig9` now have committed generators from `runs/adversary_grid/`).
 
